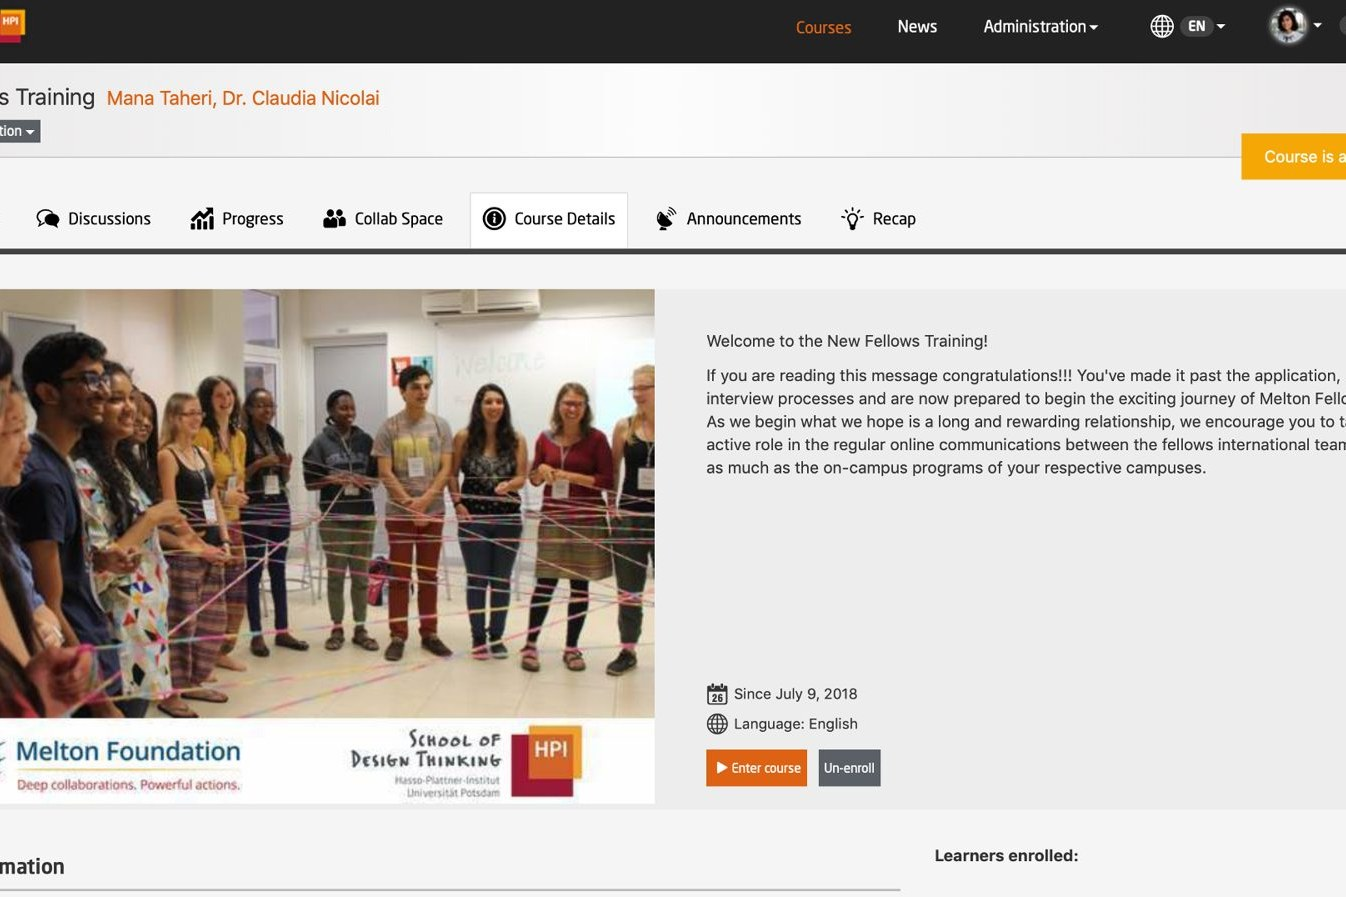
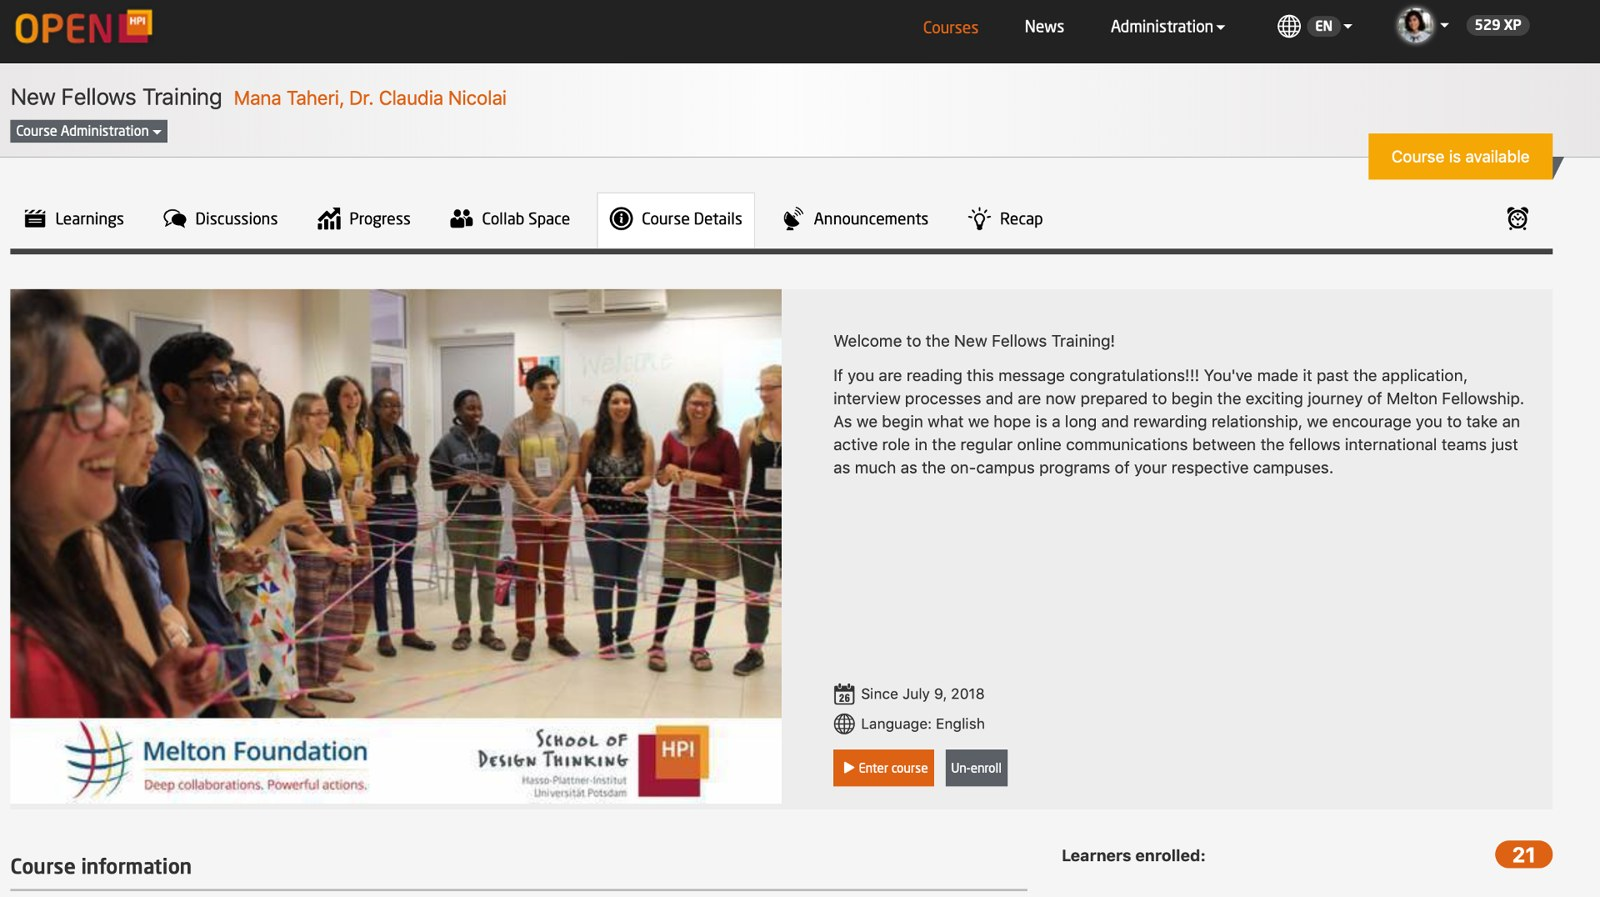
Publish site update

diff --git a/trainings.html b/trainings.html
@@ -99,8 +99,8 @@
         <div class="train-media">
           <div class="slideshow">
             <div class="slides">
-              <div class="slide is-active"><img src="images/projects/trainings/melton/slide-1.jpg?v=2" alt="The Fellows training space on the openHPI platform" /></div>
-              <div class="slide"><img src="images/projects/trainings/melton/slide-2.jpg?v=2" alt="A session at the Global Citizenship Conference 2019" /></div>
+              <div class="slide is-active"><img src="images/projects/trainings/melton/slide-1.jpg?v=3" alt="The Fellows training space on the openHPI platform" /></div>
+              <div class="slide"><img src="images/projects/trainings/melton/slide-2.jpg?v=3" alt="A session at the Global Citizenship Conference 2019" /></div>
               <div class="slide"><img src="images/projects/trainings/melton/slide-3.jpg" alt="The Fellows together at the conference" /></div>
               <div class="slide"><img src="images/projects/trainings/melton/slide-4.jpg" alt="Mapping ideas on the wall during a working session" /></div>
               <div class="slide"><img src="images/projects/trainings/melton/slide-5.jpg" alt="Mana facilitating a session with the Fellows around a prototype" /></div>
